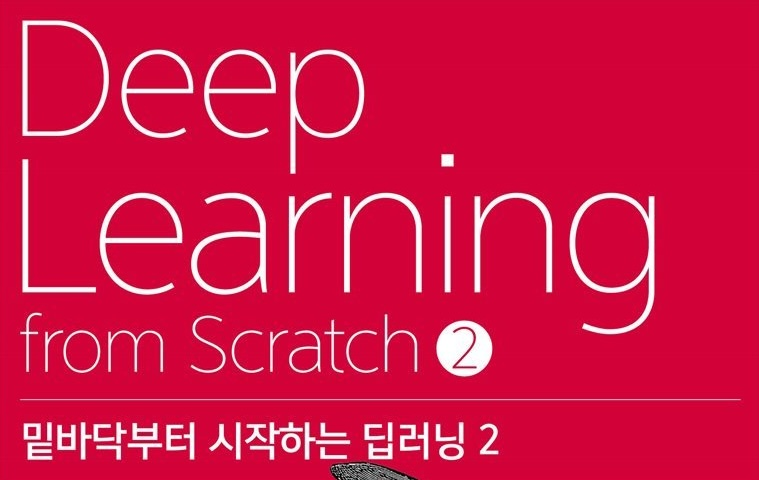
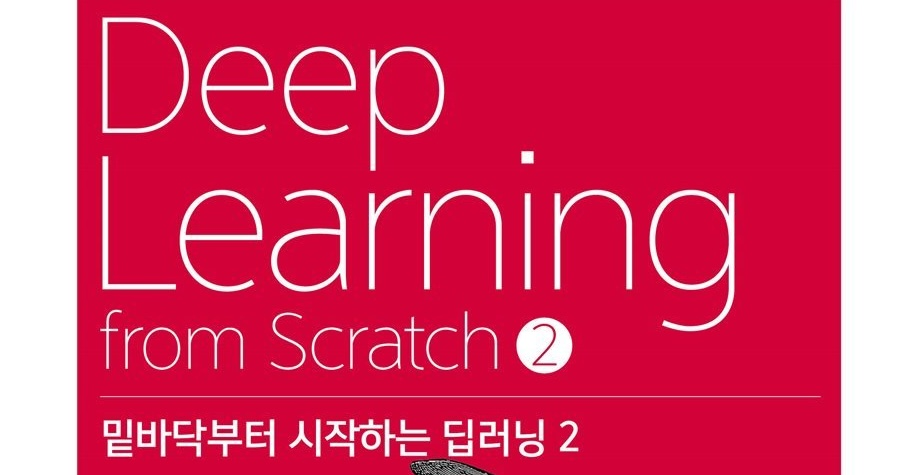
rebuilding site 2023년 11월 15일 수요일 16시 49분 14초 KST

diff --git a/p/밑바닥부터-시작하는-딥러닝-2-1장-신경망-복습/index.html b/p/밑바닥부터-시작하는-딥러닝-2-1장-신경망-복습/index.html
@@ -10,10 +10,10 @@
 <meta property='og:description' content='기초 선형대수, 파이썬, 신경망의 추론과 학습, 계산 고속화'>
 <meta property='og:url' content='https://gyeongminn.github.io/p/%EB%B0%91%EB%B0%94%EB%8B%A5%EB%B6%80%ED%84%B0-%EC%8B%9C%EC%9E%91%ED%95%98%EB%8A%94-%EB%94%A5%EB%9F%AC%EB%8B%9D-2-1%EC%9E%A5-%EC%8B%A0%EA%B2%BD%EB%A7%9D-%EB%B3%B5%EC%8A%B5/'>
 <meta property='og:site_name' content='Gyeongmin의 개발 블로그'>
-<meta property='og:type' content='article'><meta property='article:section' content='Post' /><meta property='article:tag' content='수학' /><meta property='article:tag' content='파이썬' /><meta property='article:tag' content='스터디' /><meta property='article:published_time' content='2023-11-15T00:00:00&#43;00:00'/><meta property='article:modified_time' content='2023-11-15T00:00:00&#43;00:00'/><meta property='og:image' content='https://gyeongminn.github.io/p/%EB%B0%91%EB%B0%94%EB%8B%A5%EB%B6%80%ED%84%B0-%EC%8B%9C%EC%9E%91%ED%95%98%EB%8A%94-%EB%94%A5%EB%9F%AC%EB%8B%9D-2-1%EC%9E%A5-%EC%8B%A0%EA%B2%BD%EB%A7%9D-%EB%B3%B5%EC%8A%B5/book-image.png' />
+<meta property='og:type' content='article'><meta property='article:section' content='Post' /><meta property='article:tag' content='수학' /><meta property='article:tag' content='파이썬' /><meta property='article:tag' content='스터디' /><meta property='article:published_time' content='2023-11-15T00:00:00&#43;00:00'/><meta property='article:modified_time' content='2023-11-15T00:00:00&#43;00:00'/><meta property='og:image' content='https://gyeongminn.github.io/p/%EB%B0%91%EB%B0%94%EB%8B%A5%EB%B6%80%ED%84%B0-%EC%8B%9C%EC%9E%91%ED%95%98%EB%8A%94-%EB%94%A5%EB%9F%AC%EB%8B%9D-2-1%EC%9E%A5-%EC%8B%A0%EA%B2%BD%EB%A7%9D-%EB%B3%B5%EC%8A%B5/book-image.jpeg' />
 <meta name="twitter:title" content="[밑바닥부터 시작하는 딥러닝 2] 1장 - 신경망 복습">
 <meta name="twitter:description" content="기초 선형대수, 파이썬, 신경망의 추론과 학습, 계산 고속화"><meta name="twitter:card" content="summary_large_image">
-    <meta name="twitter:image" content='https://gyeongminn.github.io/p/%EB%B0%91%EB%B0%94%EB%8B%A5%EB%B6%80%ED%84%B0-%EC%8B%9C%EC%9E%91%ED%95%98%EB%8A%94-%EB%94%A5%EB%9F%AC%EB%8B%9D-2-1%EC%9E%A5-%EC%8B%A0%EA%B2%BD%EB%A7%9D-%EB%B3%B5%EC%8A%B5/book-image.png' />
+    <meta name="twitter:image" content='https://gyeongminn.github.io/p/%EB%B0%91%EB%B0%94%EB%8B%A5%EB%B6%80%ED%84%B0-%EC%8B%9C%EC%9E%91%ED%95%98%EB%8A%94-%EB%94%A5%EB%9F%AC%EB%8B%9D-2-1%EC%9E%A5-%EC%8B%A0%EA%B2%BD%EB%A7%9D-%EB%B3%B5%EC%8A%B5/book-image.jpeg' />
 <link rel="stylesheet" href="https://cdn.jsdelivr.net/npm/katex@0.16.9/dist/katex.min.css" integrity="sha384-n8MVd4RsNIU0tAv4ct0nTaAbDJwPJzDEaqSD1odI+WdtXRGWt2kTvGFasHpSy3SV" crossorigin="anonymous">
 <script defer src="https://cdn.jsdelivr.net/npm/katex@0.16.9/dist/katex.min.js" integrity="sha384-XjKyOOlGwcjNTAIQHIpgOno0Hl1YQqzUOEleOLALmuqehneUG+vnGctmUb0ZY0l8" crossorigin="anonymous"></script>
 <script defer src="https://cdn.jsdelivr.net/npm/katex@0.16.9/dist/contrib/auto-render.min.js" integrity="sha384-+VBxd3r6XgURycqtZ117nYw44OOcIax56Z4dCRWbxyPt0Koah1uHoK0o4+/RRE05" crossorigin="anonymous"
@@ -344,10 +344,10 @@
     <header class="article-header">
         <div class="article-image">
             <a href="/p/%EB%B0%91%EB%B0%94%EB%8B%A5%EB%B6%80%ED%84%B0-%EC%8B%9C%EC%9E%91%ED%95%98%EB%8A%94-%EB%94%A5%EB%9F%AC%EB%8B%9D-2-1%EC%9E%A5-%EC%8B%A0%EA%B2%BD%EB%A7%9D-%EB%B3%B5%EC%8A%B5/">
-                <img src="/p/%EB%B0%91%EB%B0%94%EB%8B%A5%EB%B6%80%ED%84%B0-%EC%8B%9C%EC%9E%91%ED%95%98%EB%8A%94-%EB%94%A5%EB%9F%AC%EB%8B%9D-2-1%EC%9E%A5-%EC%8B%A0%EA%B2%BD%EB%A7%9D-%EB%B3%B5%EC%8A%B5/book-image_hu02aa61ae1d9de35cbe238d2676170cb9_80200_800x0_resize_box_3.png"
-                        srcset="/p/%EB%B0%91%EB%B0%94%EB%8B%A5%EB%B6%80%ED%84%B0-%EC%8B%9C%EC%9E%91%ED%95%98%EB%8A%94-%EB%94%A5%EB%9F%AC%EB%8B%9D-2-1%EC%9E%A5-%EC%8B%A0%EA%B2%BD%EB%A7%9D-%EB%B3%B5%EC%8A%B5/book-image_hu02aa61ae1d9de35cbe238d2676170cb9_80200_800x0_resize_box_3.png 800w, /p/%EB%B0%91%EB%B0%94%EB%8B%A5%EB%B6%80%ED%84%B0-%EC%8B%9C%EC%9E%91%ED%95%98%EB%8A%94-%EB%94%A5%EB%9F%AC%EB%8B%9D-2-1%EC%9E%A5-%EC%8B%A0%EA%B2%BD%EB%A7%9D-%EB%B3%B5%EC%8A%B5/book-image_hu02aa61ae1d9de35cbe238d2676170cb9_80200_1600x0_resize_box_3.png 1600w"
+                <img src="/p/%EB%B0%91%EB%B0%94%EB%8B%A5%EB%B6%80%ED%84%B0-%EC%8B%9C%EC%9E%91%ED%95%98%EB%8A%94-%EB%94%A5%EB%9F%AC%EB%8B%9D-2-1%EC%9E%A5-%EC%8B%A0%EA%B2%BD%EB%A7%9D-%EB%B3%B5%EC%8A%B5/book-image_hu02aa61ae1d9de35cbe238d2676170cb9_88138_800x0_resize_q75_box.jpeg"
+                        srcset="/p/%EB%B0%91%EB%B0%94%EB%8B%A5%EB%B6%80%ED%84%B0-%EC%8B%9C%EC%9E%91%ED%95%98%EB%8A%94-%EB%94%A5%EB%9F%AC%EB%8B%9D-2-1%EC%9E%A5-%EC%8B%A0%EA%B2%BD%EB%A7%9D-%EB%B3%B5%EC%8A%B5/book-image_hu02aa61ae1d9de35cbe238d2676170cb9_88138_800x0_resize_q75_box.jpeg 800w, /p/%EB%B0%91%EB%B0%94%EB%8B%A5%EB%B6%80%ED%84%B0-%EC%8B%9C%EC%9E%91%ED%95%98%EB%8A%94-%EB%94%A5%EB%9F%AC%EB%8B%9D-2-1%EC%9E%A5-%EC%8B%A0%EA%B2%BD%EB%A7%9D-%EB%B3%B5%EC%8A%B5/book-image_hu02aa61ae1d9de35cbe238d2676170cb9_88138_1600x0_resize_q75_box.jpeg 1600w"
                         width="800" 
-                        height="506" 
+                        height="413" 
                         loading="lazy"
                         alt="Featured image of post [밑바닥부터 시작하는 딥러닝 2] 1장 - 신경망 복습" />
                 

diff --git a/index.html b/index.html
@@ -461,10 +461,10 @@
     <header class="article-header">
         <div class="article-image">
             <a href="/p/%EB%B0%91%EB%B0%94%EB%8B%A5%EB%B6%80%ED%84%B0-%EC%8B%9C%EC%9E%91%ED%95%98%EB%8A%94-%EB%94%A5%EB%9F%AC%EB%8B%9D-2-1%EC%9E%A5-%EC%8B%A0%EA%B2%BD%EB%A7%9D-%EB%B3%B5%EC%8A%B5/">
-                <img src="/p/%EB%B0%91%EB%B0%94%EB%8B%A5%EB%B6%80%ED%84%B0-%EC%8B%9C%EC%9E%91%ED%95%98%EB%8A%94-%EB%94%A5%EB%9F%AC%EB%8B%9D-2-1%EC%9E%A5-%EC%8B%A0%EA%B2%BD%EB%A7%9D-%EB%B3%B5%EC%8A%B5/book-image_hu02aa61ae1d9de35cbe238d2676170cb9_80200_800x0_resize_box_3.png"
-                        srcset="/p/%EB%B0%91%EB%B0%94%EB%8B%A5%EB%B6%80%ED%84%B0-%EC%8B%9C%EC%9E%91%ED%95%98%EB%8A%94-%EB%94%A5%EB%9F%AC%EB%8B%9D-2-1%EC%9E%A5-%EC%8B%A0%EA%B2%BD%EB%A7%9D-%EB%B3%B5%EC%8A%B5/book-image_hu02aa61ae1d9de35cbe238d2676170cb9_80200_800x0_resize_box_3.png 800w, /p/%EB%B0%91%EB%B0%94%EB%8B%A5%EB%B6%80%ED%84%B0-%EC%8B%9C%EC%9E%91%ED%95%98%EB%8A%94-%EB%94%A5%EB%9F%AC%EB%8B%9D-2-1%EC%9E%A5-%EC%8B%A0%EA%B2%BD%EB%A7%9D-%EB%B3%B5%EC%8A%B5/book-image_hu02aa61ae1d9de35cbe238d2676170cb9_80200_1600x0_resize_box_3.png 1600w"
+                <img src="/p/%EB%B0%91%EB%B0%94%EB%8B%A5%EB%B6%80%ED%84%B0-%EC%8B%9C%EC%9E%91%ED%95%98%EB%8A%94-%EB%94%A5%EB%9F%AC%EB%8B%9D-2-1%EC%9E%A5-%EC%8B%A0%EA%B2%BD%EB%A7%9D-%EB%B3%B5%EC%8A%B5/book-image_hu02aa61ae1d9de35cbe238d2676170cb9_88138_800x0_resize_q75_box.jpeg"
+                        srcset="/p/%EB%B0%91%EB%B0%94%EB%8B%A5%EB%B6%80%ED%84%B0-%EC%8B%9C%EC%9E%91%ED%95%98%EB%8A%94-%EB%94%A5%EB%9F%AC%EB%8B%9D-2-1%EC%9E%A5-%EC%8B%A0%EA%B2%BD%EB%A7%9D-%EB%B3%B5%EC%8A%B5/book-image_hu02aa61ae1d9de35cbe238d2676170cb9_88138_800x0_resize_q75_box.jpeg 800w, /p/%EB%B0%91%EB%B0%94%EB%8B%A5%EB%B6%80%ED%84%B0-%EC%8B%9C%EC%9E%91%ED%95%98%EB%8A%94-%EB%94%A5%EB%9F%AC%EB%8B%9D-2-1%EC%9E%A5-%EC%8B%A0%EA%B2%BD%EB%A7%9D-%EB%B3%B5%EC%8A%B5/book-image_hu02aa61ae1d9de35cbe238d2676170cb9_88138_1600x0_resize_q75_box.jpeg 1600w"
                         width="800" 
-                        height="506" 
+                        height="413" 
                         loading="lazy"
                         alt="Featured image of post [밑바닥부터 시작하는 딥러닝 2] 1장 - 신경망 복습" />
                 

diff --git a/archives/index.html b/archives/index.html
@@ -385,7 +385,7 @@
             </footer>
         </div>
             <div class="article-image">
-                <img src="/p/%EB%B0%91%EB%B0%94%EB%8B%A5%EB%B6%80%ED%84%B0-%EC%8B%9C%EC%9E%91%ED%95%98%EB%8A%94-%EB%94%A5%EB%9F%AC%EB%8B%9D-2-1%EC%9E%A5-%EC%8B%A0%EA%B2%BD%EB%A7%9D-%EB%B3%B5%EC%8A%B5/book-image_hu02aa61ae1d9de35cbe238d2676170cb9_80200_120x120_fill_box_smart1_3.png" 
+                <img src="/p/%EB%B0%91%EB%B0%94%EB%8B%A5%EB%B6%80%ED%84%B0-%EC%8B%9C%EC%9E%91%ED%95%98%EB%8A%94-%EB%94%A5%EB%9F%AC%EB%8B%9D-2-1%EC%9E%A5-%EC%8B%A0%EA%B2%BD%EB%A7%9D-%EB%B3%B5%EC%8A%B5/book-image_hu02aa61ae1d9de35cbe238d2676170cb9_88138_120x120_fill_q75_box_smart1.jpeg" 
                         width="120"
                         height="120" 
                         alt="[밑바닥부터 시작하는 딥러닝 2] 1장 - 신경망 복습"

diff --git a/categories/밑바닥부터-시작하는-딥러닝-2/index.html b/categories/밑바닥부터-시작하는-딥러닝-2/index.html
@@ -475,7 +475,7 @@
             </footer>
         </div>
             <div class="article-image">
-                <img src="/p/%EB%B0%91%EB%B0%94%EB%8B%A5%EB%B6%80%ED%84%B0-%EC%8B%9C%EC%9E%91%ED%95%98%EB%8A%94-%EB%94%A5%EB%9F%AC%EB%8B%9D-2-1%EC%9E%A5-%EC%8B%A0%EA%B2%BD%EB%A7%9D-%EB%B3%B5%EC%8A%B5/book-image_hu02aa61ae1d9de35cbe238d2676170cb9_80200_120x120_fill_box_smart1_3.png" 
+                <img src="/p/%EB%B0%91%EB%B0%94%EB%8B%A5%EB%B6%80%ED%84%B0-%EC%8B%9C%EC%9E%91%ED%95%98%EB%8A%94-%EB%94%A5%EB%9F%AC%EB%8B%9D-2-1%EC%9E%A5-%EC%8B%A0%EA%B2%BD%EB%A7%9D-%EB%B3%B5%EC%8A%B5/book-image_hu02aa61ae1d9de35cbe238d2676170cb9_88138_120x120_fill_q75_box_smart1.jpeg" 
                         width="120"
                         height="120" 
                         alt="[밑바닥부터 시작하는 딥러닝 2] 1장 - 신경망 복습"

diff --git a/post/index.html b/post/index.html
@@ -475,7 +475,7 @@
             </footer>
         </div>
             <div class="article-image">
-                <img src="/p/%EB%B0%91%EB%B0%94%EB%8B%A5%EB%B6%80%ED%84%B0-%EC%8B%9C%EC%9E%91%ED%95%98%EB%8A%94-%EB%94%A5%EB%9F%AC%EB%8B%9D-2-1%EC%9E%A5-%EC%8B%A0%EA%B2%BD%EB%A7%9D-%EB%B3%B5%EC%8A%B5/book-image_hu02aa61ae1d9de35cbe238d2676170cb9_80200_120x120_fill_box_smart1_3.png" 
+                <img src="/p/%EB%B0%91%EB%B0%94%EB%8B%A5%EB%B6%80%ED%84%B0-%EC%8B%9C%EC%9E%91%ED%95%98%EB%8A%94-%EB%94%A5%EB%9F%AC%EB%8B%9D-2-1%EC%9E%A5-%EC%8B%A0%EA%B2%BD%EB%A7%9D-%EB%B3%B5%EC%8A%B5/book-image_hu02aa61ae1d9de35cbe238d2676170cb9_88138_120x120_fill_q75_box_smart1.jpeg" 
                         width="120"
                         height="120" 
                         alt="[밑바닥부터 시작하는 딥러닝 2] 1장 - 신경망 복습"

diff --git a/tags/수학/index.html b/tags/수학/index.html
@@ -475,7 +475,7 @@
             </footer>
         </div>
             <div class="article-image">
-                <img src="/p/%EB%B0%91%EB%B0%94%EB%8B%A5%EB%B6%80%ED%84%B0-%EC%8B%9C%EC%9E%91%ED%95%98%EB%8A%94-%EB%94%A5%EB%9F%AC%EB%8B%9D-2-1%EC%9E%A5-%EC%8B%A0%EA%B2%BD%EB%A7%9D-%EB%B3%B5%EC%8A%B5/book-image_hu02aa61ae1d9de35cbe238d2676170cb9_80200_120x120_fill_box_smart1_3.png" 
+                <img src="/p/%EB%B0%91%EB%B0%94%EB%8B%A5%EB%B6%80%ED%84%B0-%EC%8B%9C%EC%9E%91%ED%95%98%EB%8A%94-%EB%94%A5%EB%9F%AC%EB%8B%9D-2-1%EC%9E%A5-%EC%8B%A0%EA%B2%BD%EB%A7%9D-%EB%B3%B5%EC%8A%B5/book-image_hu02aa61ae1d9de35cbe238d2676170cb9_88138_120x120_fill_q75_box_smart1.jpeg" 
                         width="120"
                         height="120" 
                         alt="[밑바닥부터 시작하는 딥러닝 2] 1장 - 신경망 복습"

diff --git a/tags/스터디/index.html b/tags/스터디/index.html
@@ -475,7 +475,7 @@
             </footer>
         </div>
             <div class="article-image">
-                <img src="/p/%EB%B0%91%EB%B0%94%EB%8B%A5%EB%B6%80%ED%84%B0-%EC%8B%9C%EC%9E%91%ED%95%98%EB%8A%94-%EB%94%A5%EB%9F%AC%EB%8B%9D-2-1%EC%9E%A5-%EC%8B%A0%EA%B2%BD%EB%A7%9D-%EB%B3%B5%EC%8A%B5/book-image_hu02aa61ae1d9de35cbe238d2676170cb9_80200_120x120_fill_box_smart1_3.png" 
+                <img src="/p/%EB%B0%91%EB%B0%94%EB%8B%A5%EB%B6%80%ED%84%B0-%EC%8B%9C%EC%9E%91%ED%95%98%EB%8A%94-%EB%94%A5%EB%9F%AC%EB%8B%9D-2-1%EC%9E%A5-%EC%8B%A0%EA%B2%BD%EB%A7%9D-%EB%B3%B5%EC%8A%B5/book-image_hu02aa61ae1d9de35cbe238d2676170cb9_88138_120x120_fill_q75_box_smart1.jpeg" 
                         width="120"
                         height="120" 
                         alt="[밑바닥부터 시작하는 딥러닝 2] 1장 - 신경망 복습"

diff --git a/tags/파이썬/index.html b/tags/파이썬/index.html
@@ -475,7 +475,7 @@
             </footer>
         </div>
             <div class="article-image">
-                <img src="/p/%EB%B0%91%EB%B0%94%EB%8B%A5%EB%B6%80%ED%84%B0-%EC%8B%9C%EC%9E%91%ED%95%98%EB%8A%94-%EB%94%A5%EB%9F%AC%EB%8B%9D-2-1%EC%9E%A5-%EC%8B%A0%EA%B2%BD%EB%A7%9D-%EB%B3%B5%EC%8A%B5/book-image_hu02aa61ae1d9de35cbe238d2676170cb9_80200_120x120_fill_box_smart1_3.png" 
+                <img src="/p/%EB%B0%91%EB%B0%94%EB%8B%A5%EB%B6%80%ED%84%B0-%EC%8B%9C%EC%9E%91%ED%95%98%EB%8A%94-%EB%94%A5%EB%9F%AC%EB%8B%9D-2-1%EC%9E%A5-%EC%8B%A0%EA%B2%BD%EB%A7%9D-%EB%B3%B5%EC%8A%B5/book-image_hu02aa61ae1d9de35cbe238d2676170cb9_88138_120x120_fill_q75_box_smart1.jpeg" 
                         width="120"
                         height="120" 
                         alt="[밑바닥부터 시작하는 딥러닝 2] 1장 - 신경망 복습"
